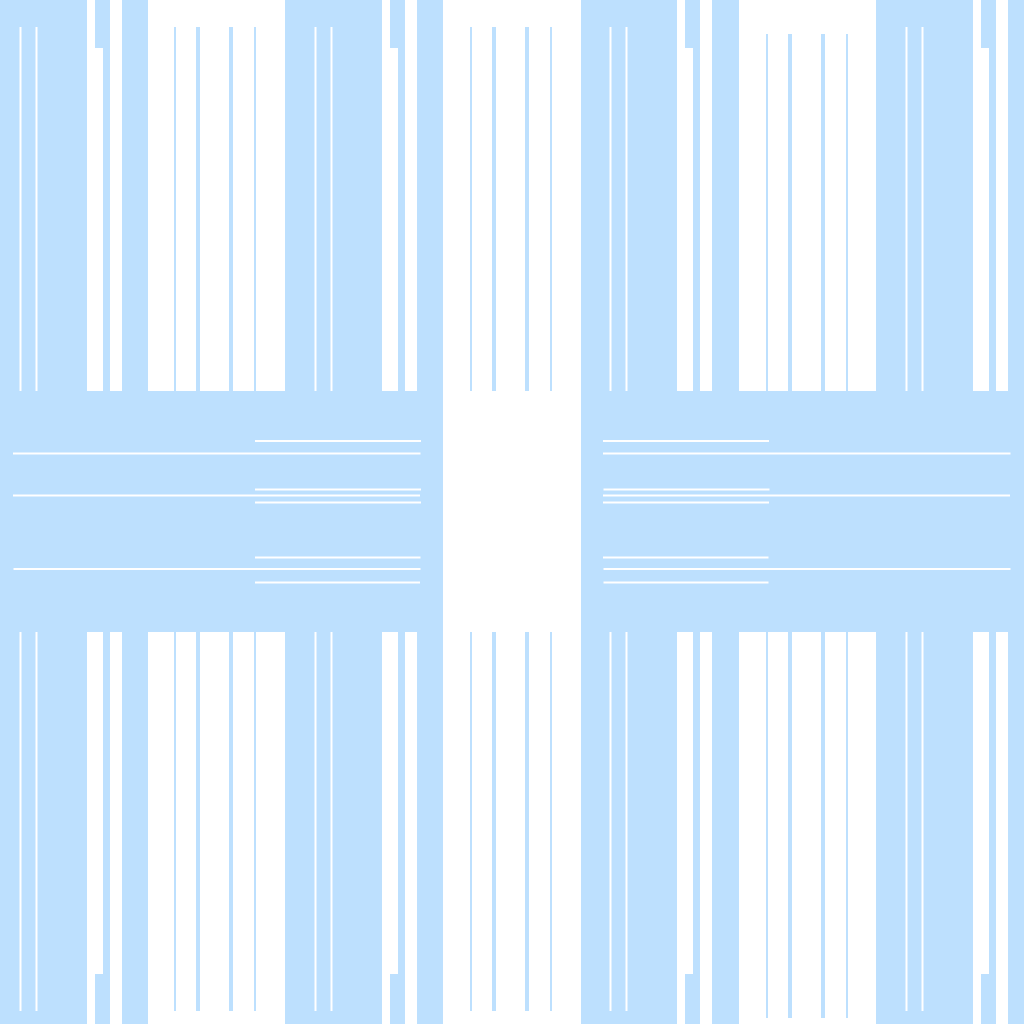
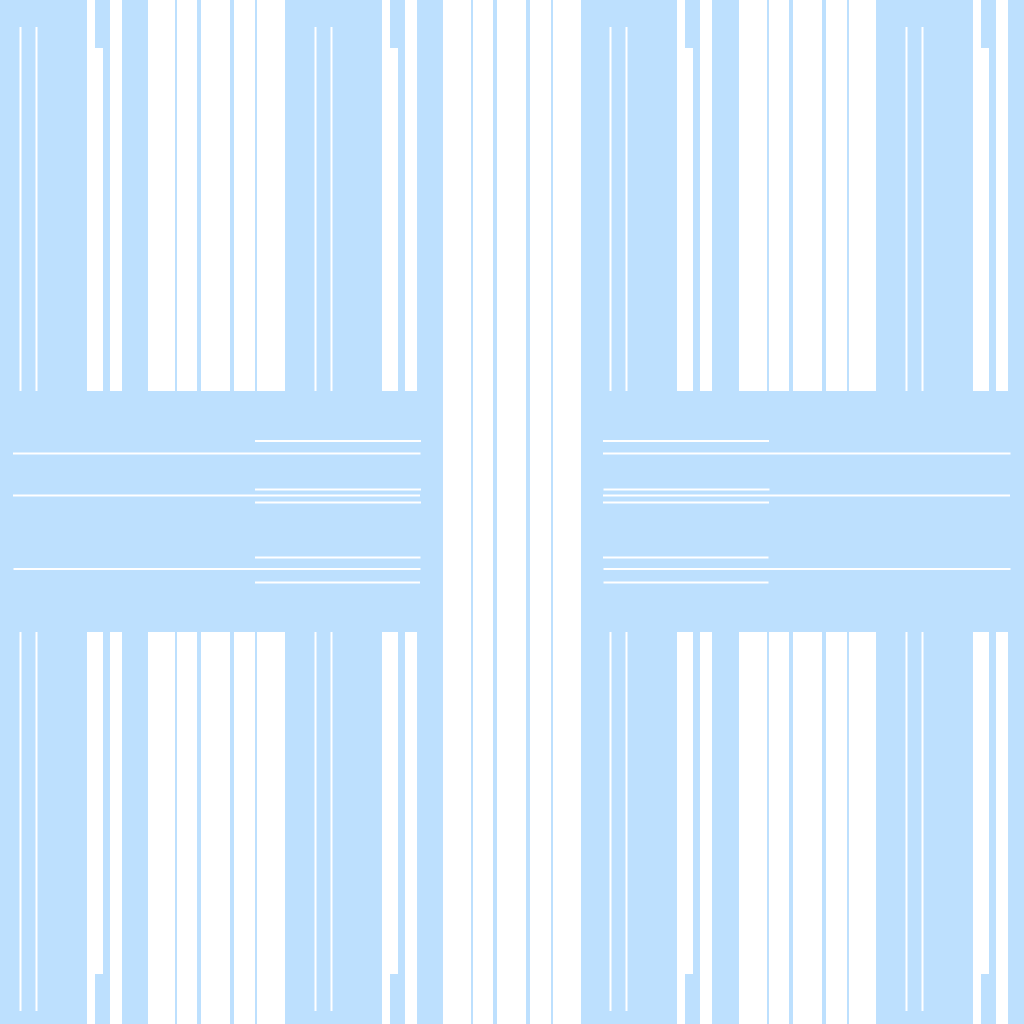
Save

diff --git a/assets/js/loader.js b/assets/js/loader.js
@@ -51,7 +51,8 @@ var geometry = new THREE.TubeGeometry( path, 300, 4, sides, true );
 //===================================================== Basic material
 var material = new THREE.MeshBasicMaterial({
     side : THREE.BackSide,
-    map: new THREE.TextureLoader().load('https://raw.githubusercontent.com/Q4zerr/LoaderThreeJS/7ce6d0e22c9863b0b4b919d2a674c1c99985012a/assets/img/loader2.png')
+    map: new THREE.TextureLoader().load('https://raw.githubusercontent.com/Q4zerr/LoaderThreeJS/34189338119518b4497bf1a0c495d7e6f8a013df/assets/img/loader3.png')
+    // map: new THREE.TextureLoader().load('https://raw.githubusercontent.com/Q4zerr/LoaderThreeJS/7ce6d0e22c9863b0b4b919d2a674c1c99985012a/assets/img/loader2.png')
     //map: new THREE.TextureLoader().load('https://raw.githubusercontent.com/Q4zerr/LoaderThreeJS/7e5396a444be701e2a646b862d8168df6c063726/assets/img/loader.png')
 });
 material.map.wrapS = THREE.RepeatWrapping;
